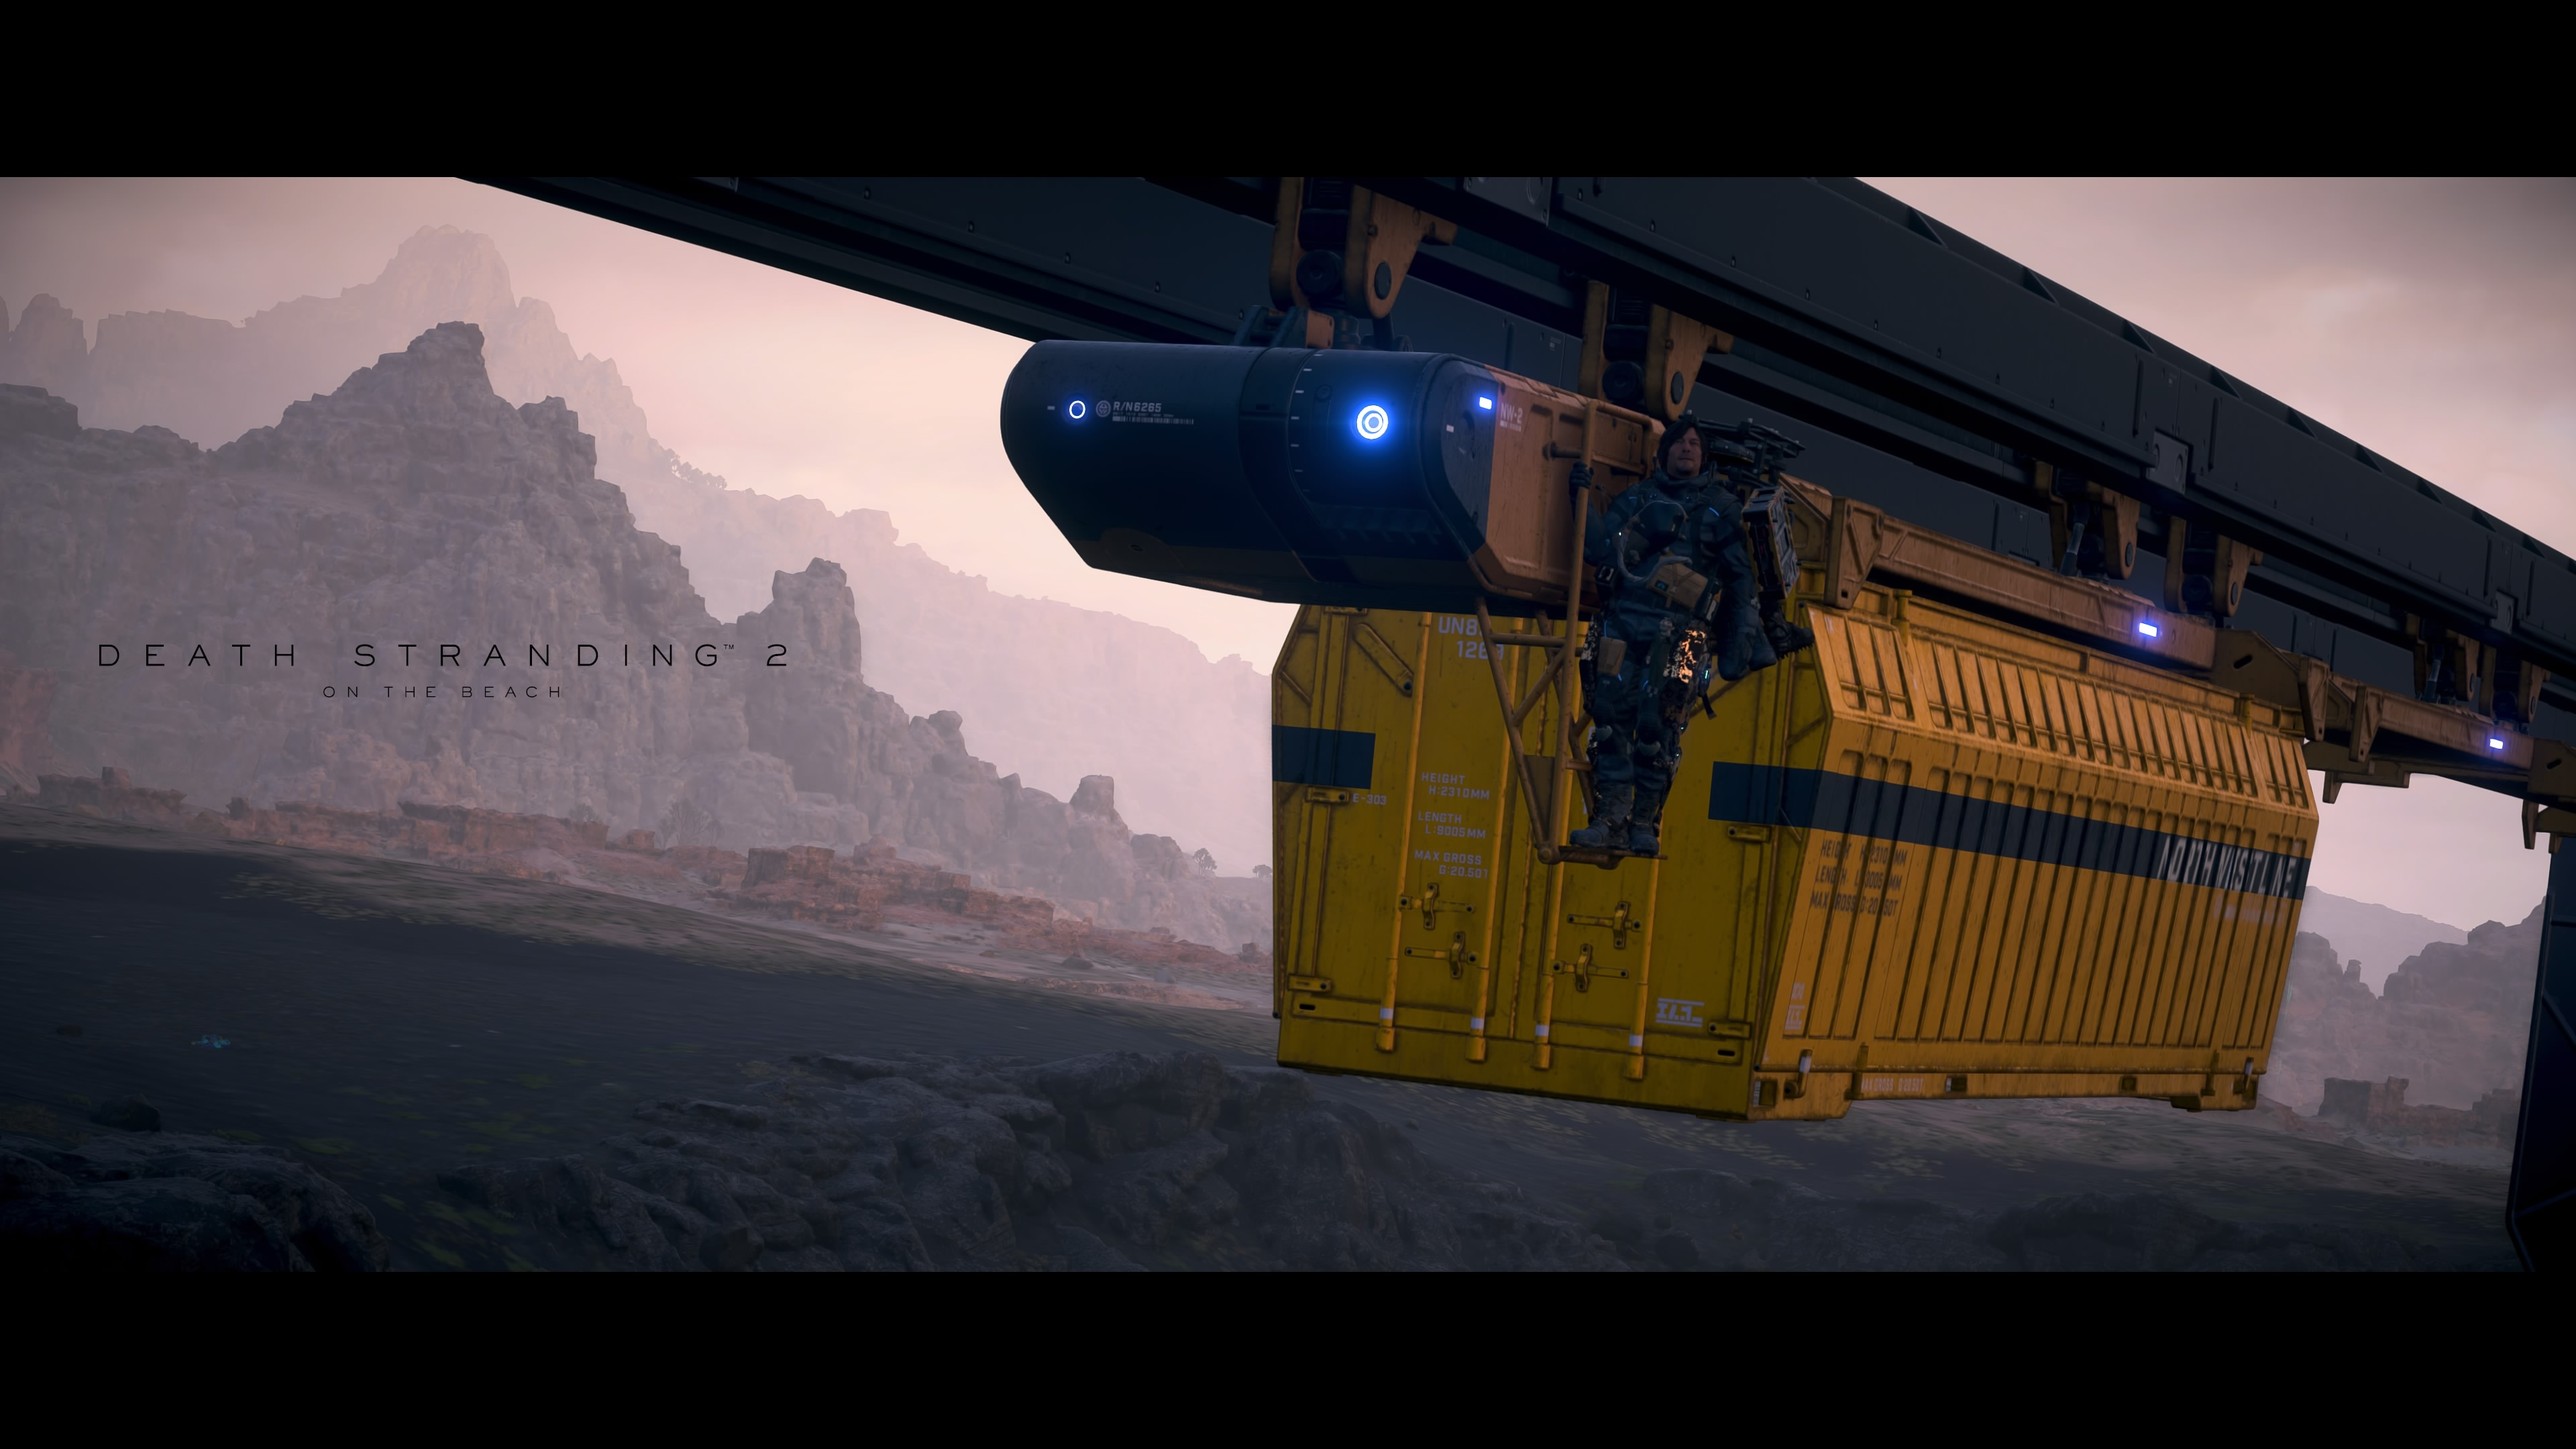
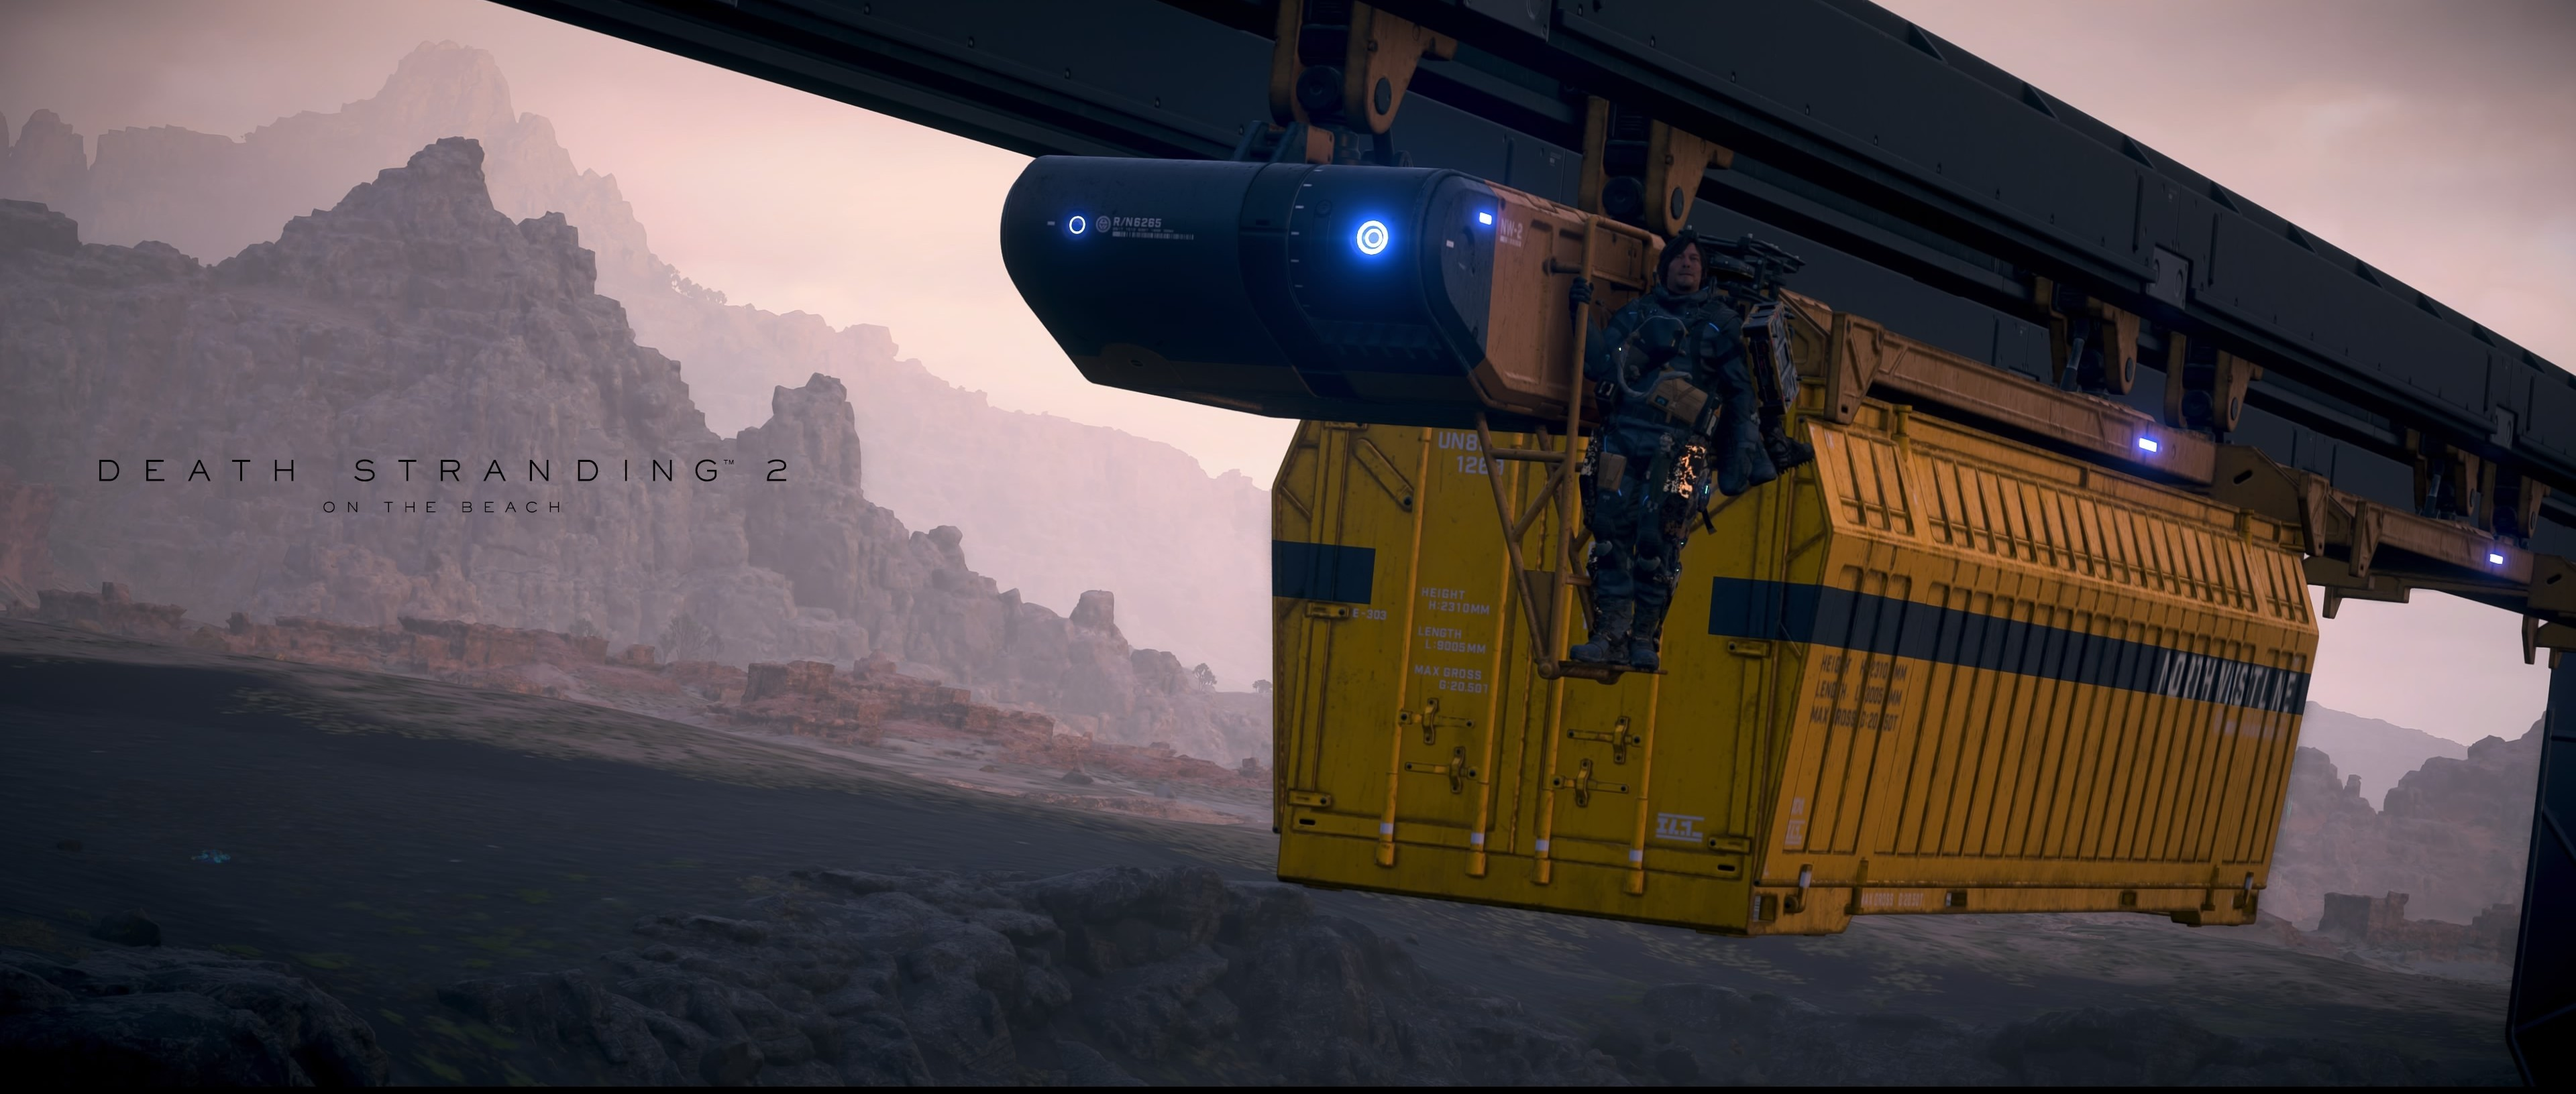
embla carousel

diff --git a/my-react-app/src/components/gamePics.css b/my-react-app/src/components/gamePics.css
@@ -1,16 +1,23 @@
+
+section {
+  width: 100%;
+  height: 75vh;          
+  display: flex;
+  justify-content: center;
+  align-items: center;
+}
 .embla {
   overflow: hidden;
-  position: relative;
-  left: 20vw;
+  width: 75%;             /* 75% of page width */
+  height: 100%;  
 }
 .embla__container {
   display: flex;
-  
-  width: 50vw;
-  height:50vh;
+  height: 100%;
 }
 .embla__slide {
-  flex: 0 0 100%;
-  min-width: 0;
-  
+  display: flex;
+  justify-content: center;
+  align-items: center;
+  background-color: black; /* or any background color */
 }
